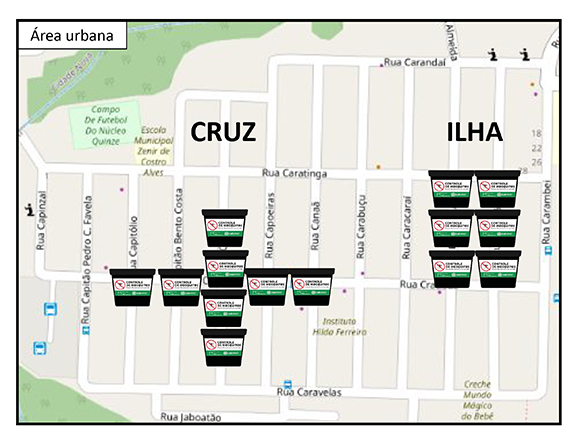
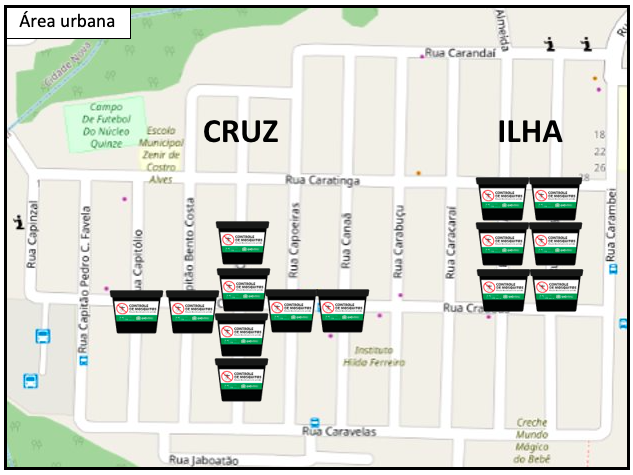
Alterações de imagens

diff --git a/modulo2/modulo2-aula1.html b/modulo2/modulo2-aula1.html
@@ -355,33 +355,13 @@
                     condições:</p>
 
                 <div class="row imagem">
-                    <div class="col-sm-3">
+                    <div>
                         <img src="../assets/images/modulo2/aula1/img6.png"
-                            alt="Foto de uma cozinha com azulejos marrons, pia com bancada preta e cortina quadriculada em branco e preto, ao lado de um fogão. Alguns vasos de flores na parede e sobre a pia. Ao lado do fogão, na parede, um pano de prato. No chão, em frente ao fogão e pia, dois tapetes de fundo branco e desenho."
-                            class="img-fluid">
-                        <p class="centro">Ambiente de sombra e protegido da chuva e do sol, mas não fechado</p>
-                    </div>
-                    <div class="col-sm-3">
-                        <img src="../assets/images/modulo2/aula1/img7.png"
-                            alt="Foto de uma pequena lavanderia. Ao fundo, em uma parede laranja, tanque e máquina de lavar. À esquerda, em uma parede azul, um armário e alguns potes. À direita, alguns baldes, cesto e uma tábua de passar roupa dobrada e encostada na parede de cor cinza."
-                            class="img-fluid">
-                        <p class="centro">Preferentemente no peridomicílio ou área externa (quintais, lavanderias,
-                            áreas
-                            de serviço, garagens, varandas, etc)</p>
-                    </div>
-                    <div class="col-sm-3">
-                        <img src="../assets/images/modulo2/aula1/img8.png"
-                            alt="Foto de uma EDL (pote de plástico transparente com pano preto e etiqueta) colocada ao lado de plantas e pedrinhas decorativas."
-                            class="img-fluid">
-                        <p class="centro">Instalação da EDL a uma altura não superior a 1,50m.</p>
-                    </div>
-                    <div class="col-sm-3">
-                        <img src="../assets/images/modulo2/aula1/img9.png"
-                            alt="Foto da parte externa de uma casa com um pequeno gramado lateral à entrada da garagem coberta."
-                            class="img-fluid">
-                        <p class="centro">Fora do alcance de crianças e animais, para evitar que virem ou danifiquem
-                            a
-                            EDL</p>
+                            alt="
+                            Foto de uma cozinha com azulejos marrons, pia com bancada preta e cortina quadriculada em branco e preto, ao lado de um fogão. Alguns vasos de flores na parede e sobre a pia. Ao lado do fogão, na parede, um pano de prato. No chão, em frente ao fogão e pia, dois tapetes de fundo branco e desenho.
+                            Foto de uma pequena lavanderia. Ao fundo, em uma parede laranja, tanque e máquina de lavar. À esquerda, em uma parede azul, um armário e alguns potes. À direita, alguns baldes, cesto e uma tábua de passar roupa dobrada e encostada na parede de cor cinza.
+                            Foto de uma EDL (pote de plástico transparente com pano preto e etiqueta) colocada ao lado de plantas e pedrinhas decorativas.
+                            Foto da parte externa de uma casa com um pequeno gramado lateral à entrada da garagem coberta." class="img-fluid">
                     </div>
                 </div>
 
@@ -484,8 +464,7 @@
                 <h3>Registro de instalação de estações disseminadoras de larvicida</h3>
 
                 <!-- Imagem Mapeada-->
-                <img class="img-fluid imagem-mapeada" src="../assets/images/modulo2/aula1/img10.png"
-                    usemap="#image-map">
+                <img class="img-fluid imagem-mapeada" src="../assets/images/modulo2/aula1/img7.png" usemap="#image-map">
 
                 <map name="image-map">
                     <area alt="1"

diff --git a/modulo1/modulo1-aula1.html b/modulo1/modulo1-aula1.html
@@ -234,7 +234,7 @@
                     <div class="col-lg-8">
                         <img class="img-fluid" src="../assets/images/modulo1/aula1/img1.png"
                             alt="Foto da parte de trás de uma casa, as paredes possuem uma cor escura, há uma janela no centro com vários objetos na parte interna da residência e alguns vasos de planta e recipientes vazios no chão.">
-                        <div><small class="text-muted">Crédito: Pixaby</small></div>
+                        <div><small class="text-muted">Crédito: ChatGPT</small></div>
                     </div>
                     <div class="col-lg-4 centro">
                         <p>Falando mais um pouco do mosquito <i>Aedes aegypti</i>, ele se encontra em regiões

diff --git a/modulo1/modulo1-aula3.html b/modulo1/modulo1-aula3.html
@@ -302,7 +302,7 @@
                         <img src="../assets/images/modulo1/aula3/img3.png"
                             alt="Foto de um cômodo com cadeira, mesas e pequenas estantes de madeira próximas às paredes, há uma janela com grades e vários entulhos no chão e nas estantes."
                             class="img-fluid">
-                        <small class="text-muted">Crédito: Pixaby</small>
+                        <small class="text-muted">Crédito: ChatGPT</small>
                     </div>
                     <div class="col-lg-4 centro">Esse mesmo resultado foi observado quando se instalaram EDL’s nos
                         pontos
